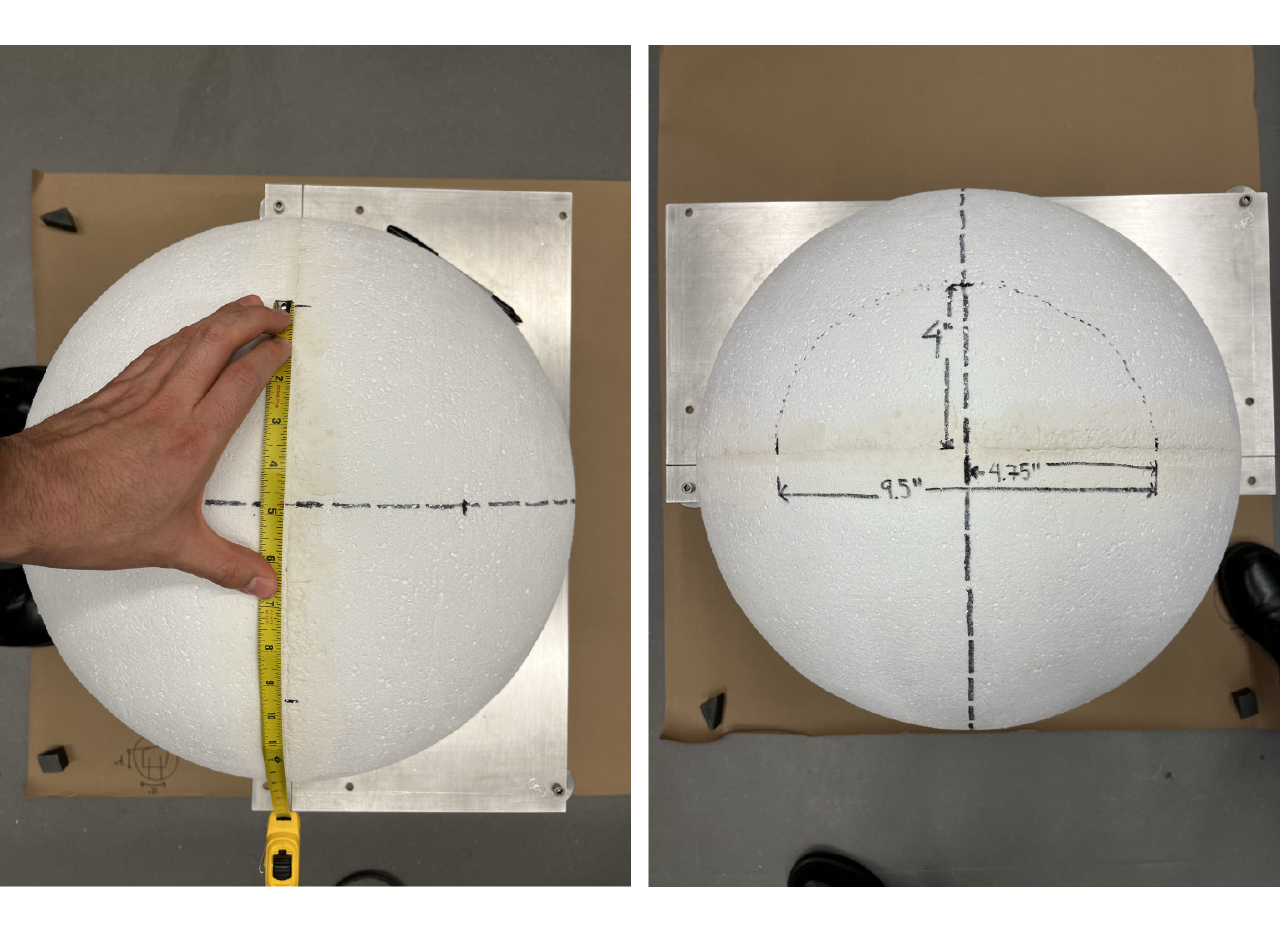
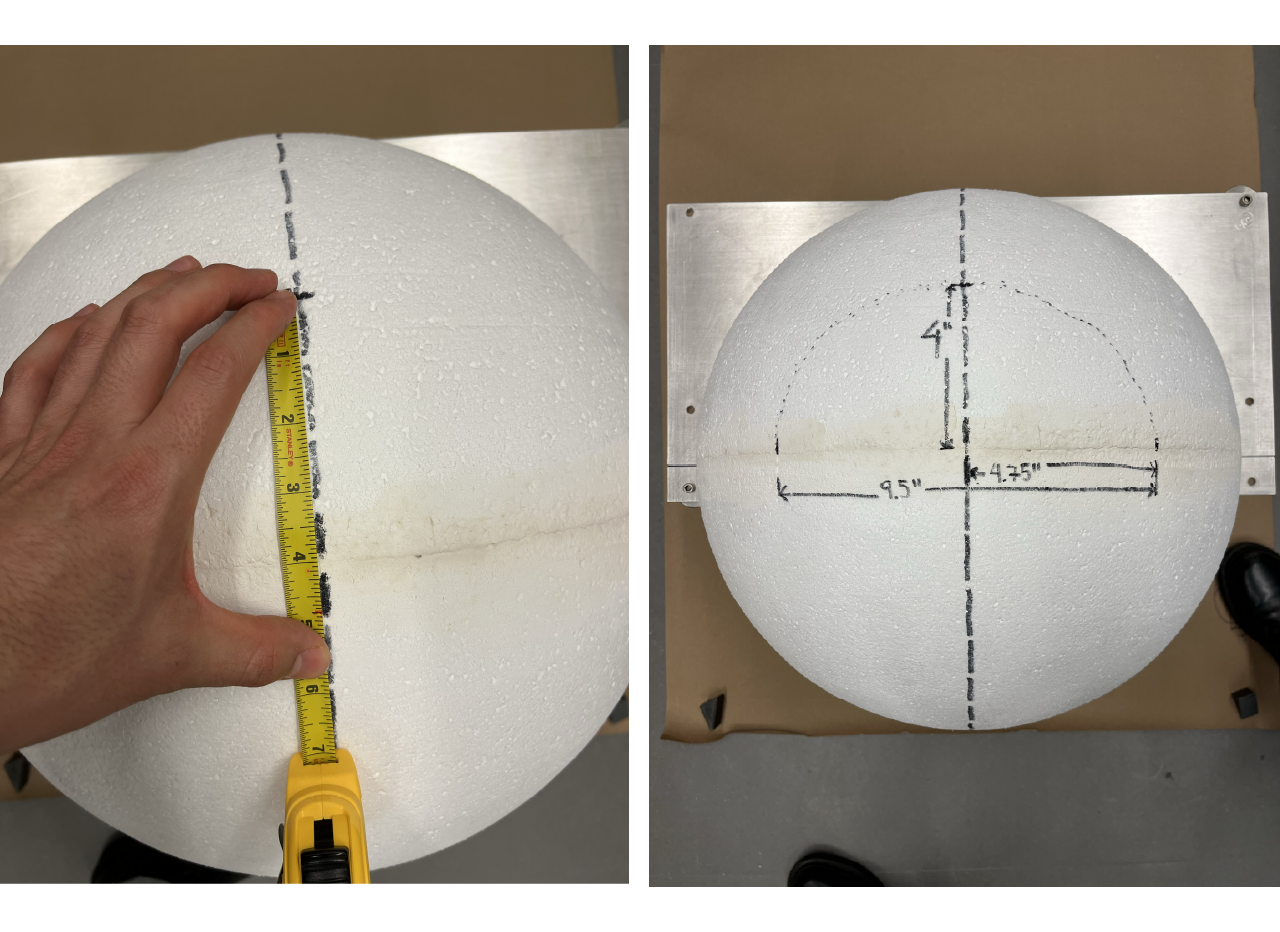
Add screen building to projection system docs

diff --git a/src/building/projection.md b/src/building/projection.md
@@ -49,7 +49,7 @@ lang: en-US
   <img src='./assets/images/projection/screen-building-5.png'>
  </figure>
 
- ### Day 2 [time: ~2 hours]
+ ### Day 2 [time: ~3 hours]
 
  1. Place the screen with the plate on a flat surface. We use a couple 14" (1 inch diameter) pillars, other stuff could potentially be used just making sure the ball is freely hanguing from the plate and have enough space (at least ~6 inches) from the bottom of the screen to the flat surface. We place the pillars diagonally for stability.
 
@@ -71,7 +71,88 @@ lang: en-US
   <img src='./assets/images/projection/screen-building-8.png'>
  </figure>
 
+ 4. Place a mark at 4.75" and at 6" from the midline along the joint of the spheres (at the top) and along the equator. Use the laser level to project a line from the top marks to the marks on the equator and draw with a marker a pointed line. 
+
+ <figure>
+  <img src='./assets/images/projection/screen-building-9.png'>
+ </figure>
  
+ 5. Place a mark at 2.5" from the equator to the top of the ball along the 4.75" and 6" lines.
 
+ <figure>
+  <img src='./assets/images/projection/screen-building-10.png'>
+ </figure>
 
+ 6. Join with a marker (we used a different color to make it noticeable) the intersections between the pointed lines as shown in the pictures below.
+
+      - (A & I) The intersection between the bottom 4.75" line from the equator and the 6" line from the meridian.
+      - (B & H) The intersection between the top 2.5" line from the equator and the 6" line from the meridian.
+      - (C & G) The intersection between the top 2.5" line from the equator and the 4.75" line from the meridian.
+      - (D & F) The intersection between the top joint of the sphere and the 4.75" line from the meridian.
+      - (E) The intersection between the top 4" mark from the top joint of the sphere and the meridian.
+
+      <figure>
+         <img src='./assets/images/projection/screen-building-11.png'>
+      </figure>
+
+ 7. Use a styrofoam cutter (we use the *200 W Pro Electric Hot Knife from RoMech Foam Cutter*) to cut the sphere though the marked lines. We recommend to use a bench vise or C-clamps to hold the sphere through the aluminum plate follow the next steps:
+
+     - Cut the bottom part of the sphere following the line marked at 4.75" below the equator.
+     - Cut the line through intersections (B) toward (A).
+     - Cut the line through the instersection (D) toward (C).
+     - Cut the line through the intersection (B) toward (C).
+     - Repeat the steps for the other side.
+
+      <figure>
+         <img src='./assets/images/projection/screen-building-12.png'>
+      </figure>
+
+     - Cut the line through the intersection (D) toward (F).
+     - Remove cutted styrofoam part as shown in the picture below.
+
+      <figure>
+         <img src='./assets/images/projection/screen-building-13.png'>
+      </figure>
+
+     - Cut a line from the mark (E) toward the bottom of the sphere.
+     - Cut a line through the intersection (D) toward (E) and remove the cutted styrofoam part.
+     - Cut a line through the intersection (F) toward (E) and remove the cutted styrofoam part.
+
+      <figure>
+         <img src='./assets/images/projection/screen-building-14.png'>
+      </figure>
+
+ 8. Apply joint compound to the crack on the half spheres intersection from the inside of the screen using a curved rubber wipe down knife. Let it dry overnight and apply a second hand if necessary to have a smooth surface.
+
+ <figure>
+   <img src='./assets/images/projection/screen-building-15.png'>
+ </figure>
+
+ ### Day 3 [time: ~1 hour]
+
+ 1. Apply All purpose foam coat + Bounce from Hot Wire Factory following the instructions for mixing (just make sure the mix is thin enough to handle but thick enough to work as a protective layer). Apply one coat to the exterior part of the sphere, if you find the layer to thin you can apply 2 layers. We recommend to first apply to the top part of the sphere from the aluminum plate, then the bottom part and finally the cutted edges of the sphere (everything but the inner surface of the sphere). Let it dry for 24 hrs.
+
+ <figure>
+   <img src='./assets/images/projection/screen-building-16.png'>
+ </figure>
+
+ ### Day 4 [time: ~1/2 hour each layer plus drying time]
+
+ 1. Apply white lightweight spackling to the inner surface of the sphere using a curved rubber wipe down knife, making sure cover the imperfections on the surface as much as you can. Let it dry for ~3 hours (or more depending on ambient temperature and humidity), you can touch the surface and it shouldn't stick to your hand. Sand the surface and apply another layer. Repeat the process from 2 to 3 times until you get a smooth surface on the screen.
+
+ <figure>
+   <img src='./assets/images/projection/screen-building-17.png'>
+ </figure>
+
+ ### Day 5 [time: ~1/2 hour each layer plus drying time]
+
+ 1. Paint the outer part of the screen with a black matte paint (we recommend the black paint on screen wall and ceiling ambien light rejectting acoustic dampening) using a 3" or 4" brush. Do not paint the edges of the screen yet. Apply 2 layers of paint to the outer part.
+
+ 2. Use a roller to paint the inner part of the screen. Apply 1 layer of primer (we recommend to use the paint on screen leveling primer) and 2 to 3 layers of silver paint (we use the paint on screen S1 Screen Plus).
+
+ 3. Using a 1" brush paint the edges of the sphere with black matte paint.
+
+ <figure>
+   <img src='./assets/images/projection/screen-building-18.png'>
+ </figure>
 
